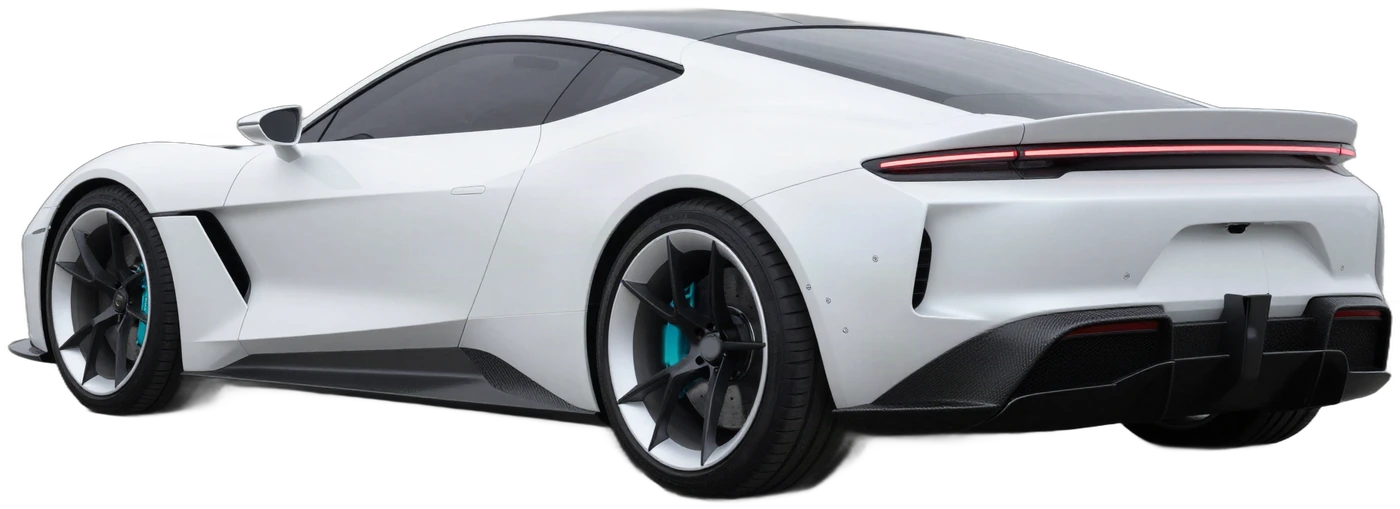
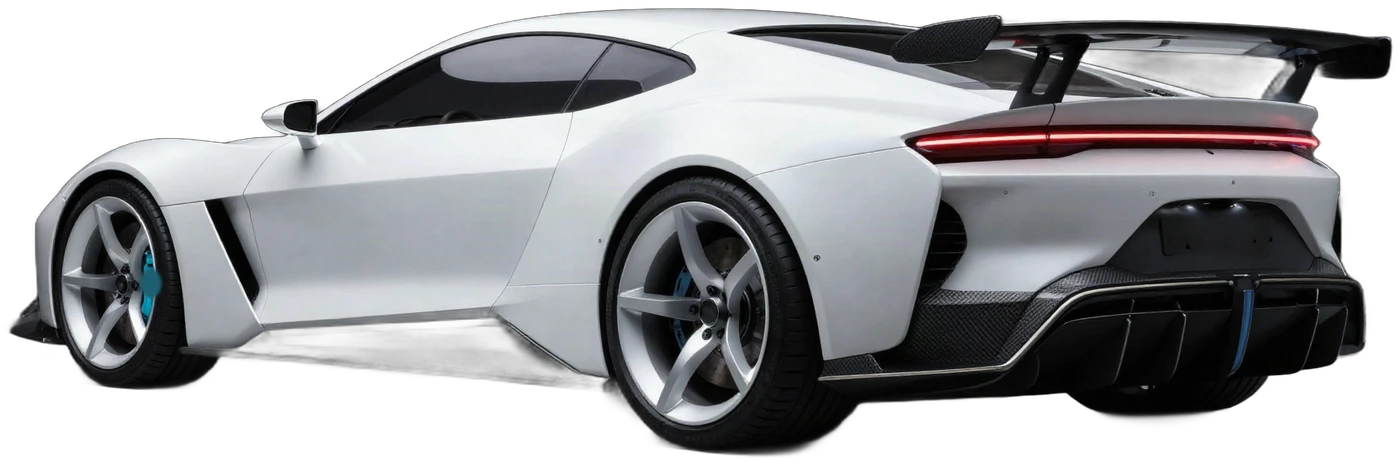
Rebuild CX Vortex in the CX Collector Garage premium CGI-render style
Replaces the outdoor street-photography direction with a dark premium
showroom (circular display platform, dramatic overhead spotlight rig,
polished reflective floor) and re-renders CX Vortex across all 6 views
in a "premium CGI automotive render" style rather than a photograph —
closer to the Forza/Gran Turismo garage-screen aesthetic requested.

Found that "video game key art / ArtStation / octane render" style
keywords in the prompt measurably increased the rate of the model
copying real production cars (exact Aventador/McLaren/Lamborghini
silhouettes and badges) compared to a plain photographic framing — the
working formula keeps the already-proven "futuristic concept car"
design language and only adds "photorealistic CGI render quality" plus
the showroom lighting description, documented in vehicleArt.ts for
next time. Same compositing architecture as before: the car cutout and
showroom plate stay separate layers so CSS-filter paint recoloring
still works, and every future vehicle reuses the same shared plate.

diff --git a/src/vehicleArt/vehicleArt.ts b/src/vehicleArt/vehicleArt.ts
@@ -11,19 +11,30 @@ import type { Rarity } from '../lib/data/empire';
  *    stack (instant, free, no per-colour asset); BODY_KIT swaps to a
  *    second pre-rendered "wide" image where one exists.
  *
- * 2. REALISTIC AUTOMOTIVE PHOTOGRAPHY (CX Vortex — the new flagship
- *    standard every future template should match): a photoreal AI-
- *    generated car cutout composited, at render time, over ONE shared
- *    master environment plate (PHOTOREAL_BACKDROP) — never a baked-
+ * 2. CX COLLECTOR GARAGE — premium CGI game-render style (CX Vortex —
+ *    the flagship standard every future template should match): an
+ *    AI-generated car cutout, rendered in a "premium CGI automotive
+ *    render" style (ray-traced, studio-lit, ArtStation-adjacent —
+ *    explicitly NOT a photograph and NOT the earlier toy-car direction,
+ *    both tried and rejected this session), composited at render time
+ *    over ONE shared showroom plate (GARAGE_BACKDROP) — never a baked-
  *    together single image. Keeping the car and the environment as
  *    separate layers is what still lets PAINT recolor the car via the
  *    same CSS filter stack as the stylized style, without dragging the
- *    background's color along with it. Every realistic vehicle reuses
- *    the exact same backdrop plate — regenerating "the same street"
- *    independently per vehicle does not produce a pixel-consistent
- *    result (proven this session across many attempts), so a single
- *    shared plate is the only reliable way the whole fleet reads as one
- *    consistent world rather than disconnected AI generations.
+ *    background's color along with it. Every such vehicle reuses the
+ *    exact same showroom plate — regenerating "the same room" independently
+ *    per vehicle does not produce a pixel-consistent result (proven this
+ *    session across many attempts, both for the street plate and this
+ *    one), so a single shared plate is the only reliable way the whole
+ *    fleet reads as one consistent showroom rather than disconnected AI
+ *    generations. Note on prompting: "video game key art / ArtStation /
+ *    octane render" style keywords measurably increased the rate of the
+ *    model copying real production cars (Aventador/McLaren/Lamborghini
+ *    silhouettes and badges) compared to a plain "photograph" framing —
+ *    the working formula keeps the proven "futuristic concept car"
+ *    design language and only adds "photorealistic CGI render quality"
+ *    plus the showroom lighting/floor description, not heavier game-art
+ *    style tags.
  *
  * Neither style does true per-part layer compositing (a separate
  * transparent PNG per wheel/spoiler/etc.): getting AI-generated layers
@@ -55,21 +66,24 @@ export interface VehicleArtSources {
   views: Partial<Record<ViewKey, string>>;
   /** Body-kit ("wide") variant of the front3q view only, for now. */
   wide?: string;
-  /** A shared, reusable photoreal environment plate this vehicle's cutout
-   *  composites over at render time (see PHOTOREAL_BACKDROP below) —
-   *  present only for vehicles built in the realistic-photography
-   *  direction. Every such vehicle uses the SAME plate so the whole
-   *  fleet reads as one consistent world, per the explicit "same street"
-   *  requirement — never generate a new environment per car. */
+  /** A shared, reusable CX Collector Garage showroom plate this
+   *  vehicle's cutout composites over at render time (see
+   *  GARAGE_BACKDROP below) — present only for vehicles built in the
+   *  premium-CGI-render direction. Every such vehicle uses the SAME
+   *  plate so the whole fleet reads as one consistent showroom, per the
+   *  explicit "same collector garage" requirement — never generate a
+   *  new environment per car. */
   photoBackdrop?: string;
 }
 
-/** The one master environment plate every realistic-photography vehicle
- *  composites onto. Regenerating "the same street" independently per
- *  vehicle does not produce a pixel-consistent result (proven this
- *  session) — a single shared plate is the only reliable way to
- *  guarantee every car appears to live in the same place. */
-export const PHOTOREAL_BACKDROP = '/vehicle-art/street/master.webp';
+/** The one master showroom plate every CX Collector Garage vehicle
+ *  composites onto — dark premium architecture, circular display
+ *  platform, dramatic overhead spotlight rig, polished reflective
+ *  floor. Regenerating "the same room" independently per vehicle does
+ *  not produce a pixel-consistent result (proven repeatedly this
+ *  session), so a single shared plate is the only reliable way to
+ *  guarantee every car appears to live in the same showroom. */
+export const GARAGE_BACKDROP = '/vehicle-art/garage/master.webp';
 
 /** Keyed by the exact `game_vehicle_templates.name` — every template
  *  gets its own bespoke artwork rather than a shared placeholder. */
@@ -89,7 +103,7 @@ export const ARTWORK_SOURCES: Record<string, VehicleArtSources> = {
       rear: '/vehicle-art/cx-vortex/rear.webp',
       interior: '/vehicle-art/cx-vortex/interior.webp',
     },
-    photoBackdrop: PHOTOREAL_BACKDROP,
+    photoBackdrop: GARAGE_BACKDROP,
   },
   'Titan 4x4': { views: { front3q: '/vehicle-art/titan_4x4.webp' } },
   'Phantom Reaper': { views: { front3q: '/vehicle-art/phantom_reaper.webp' } },
